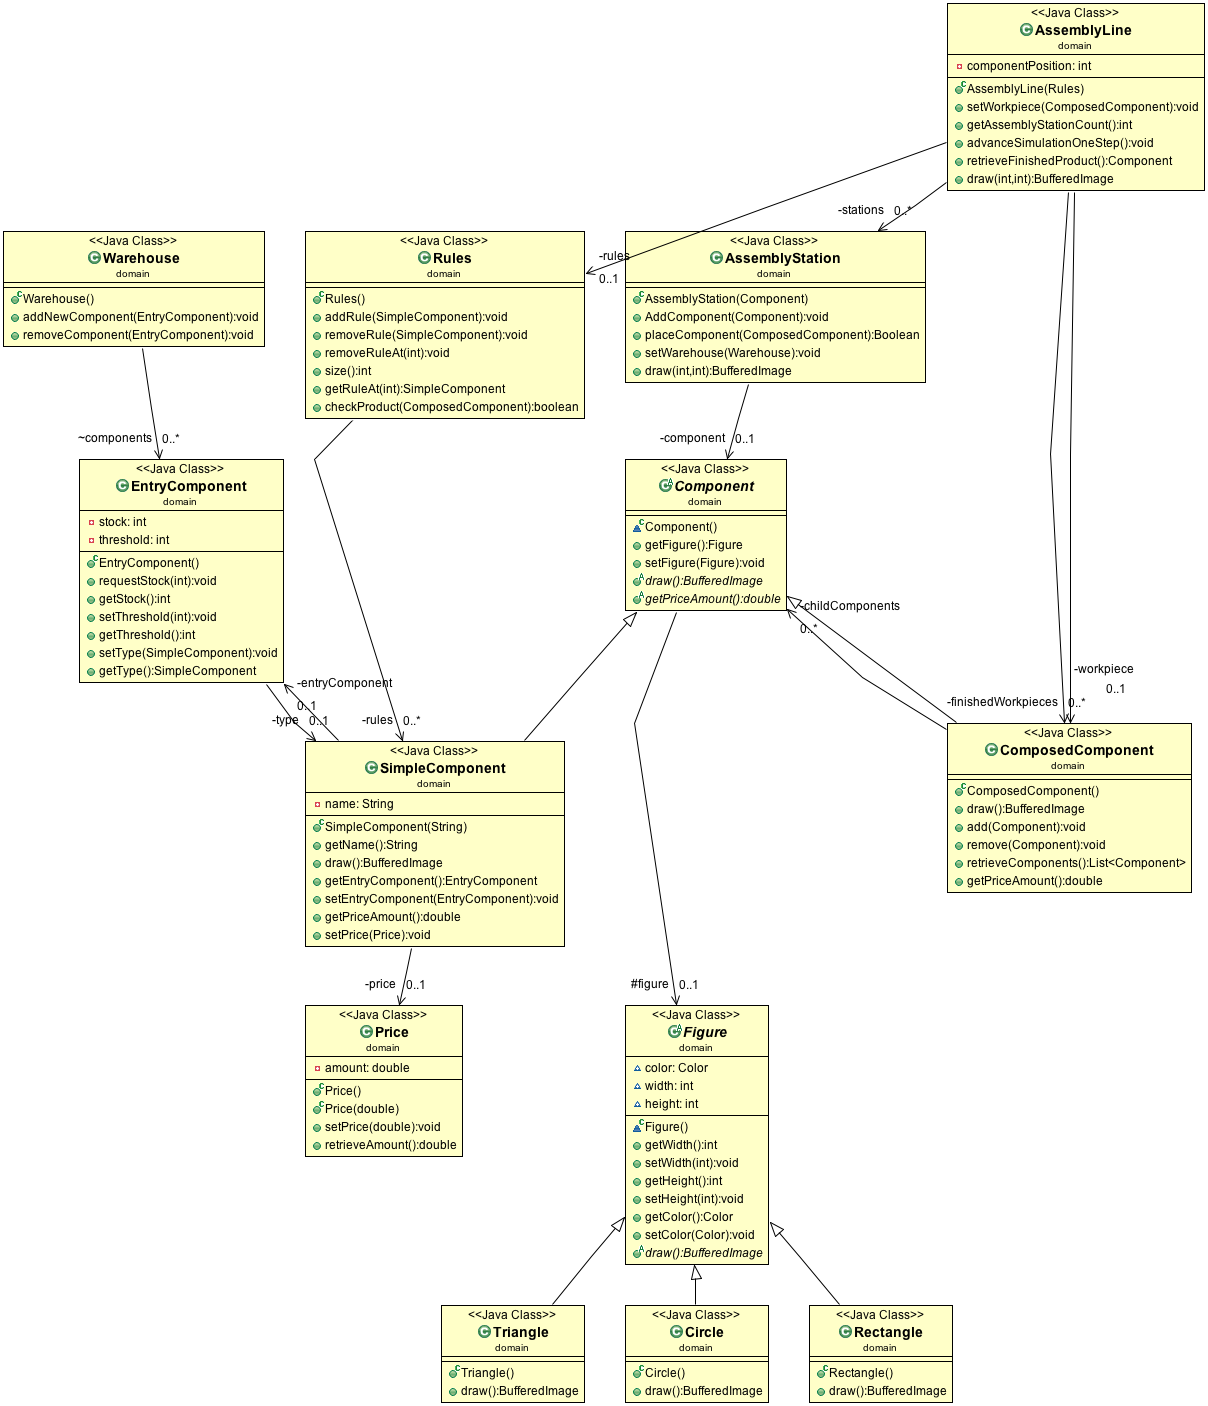
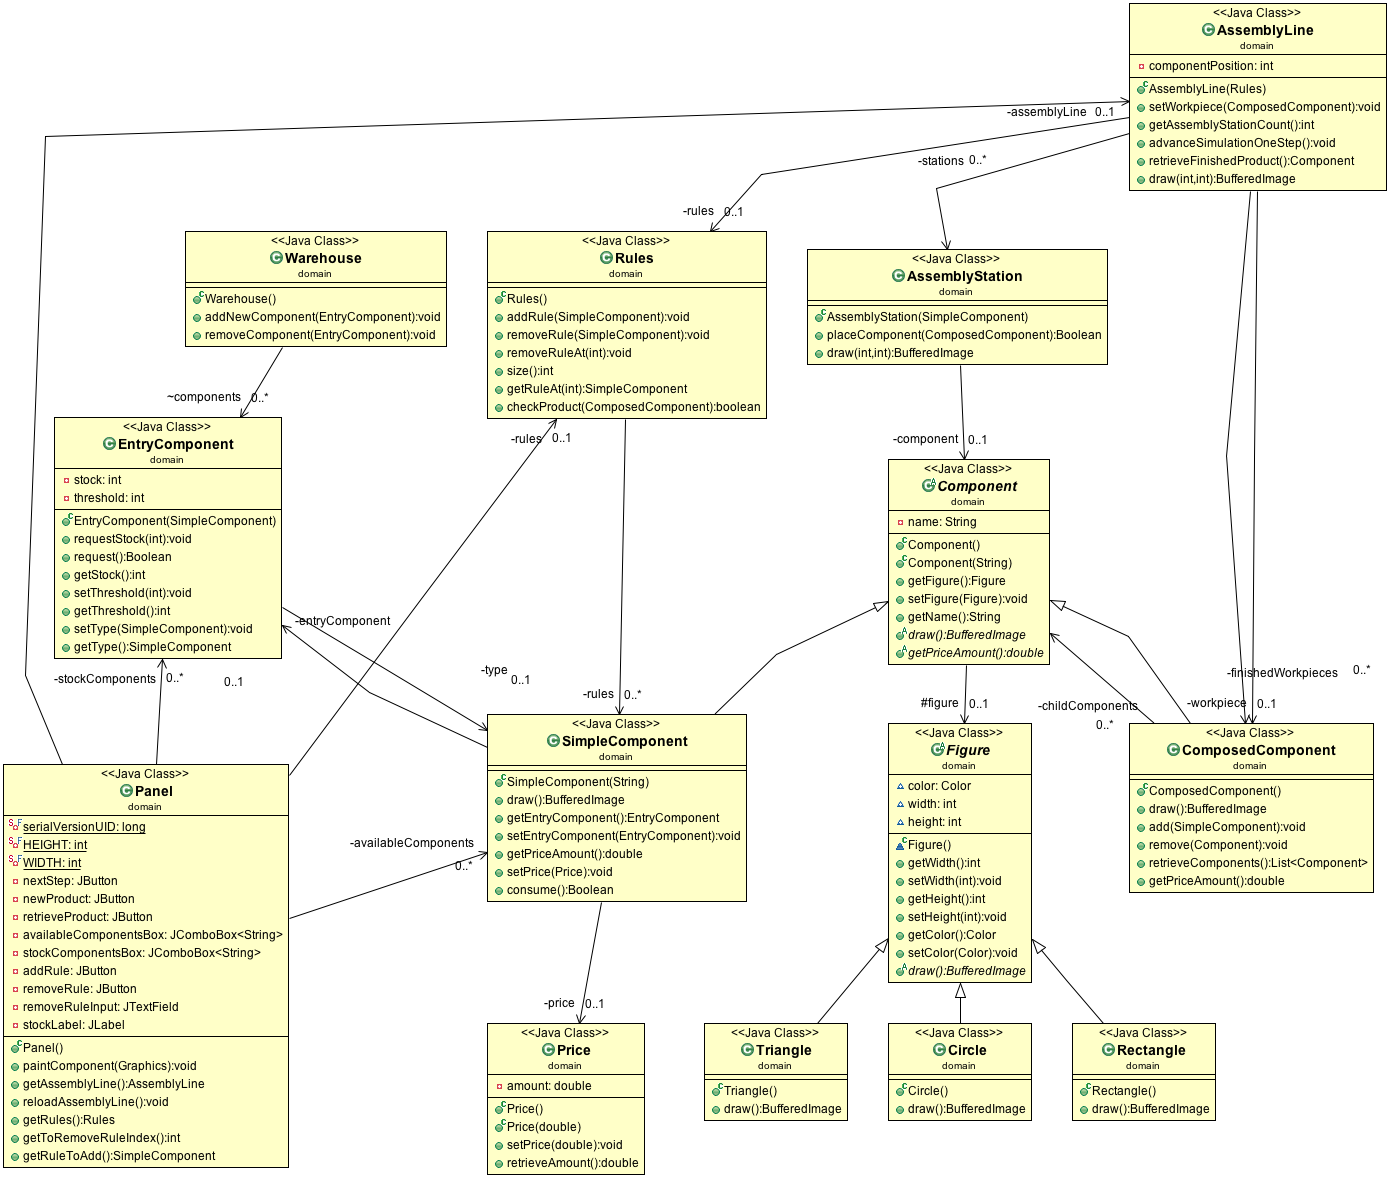
state of last feedback

diff --git a/AssemblyLine/src/domain/Panel.java b/AssemblyLine/src/domain/Panel.java
@@ -33,21 +33,25 @@ public class Panel extends JPanel {
 	private JButton newProduct;
 	private JButton retrieveProduct;
 	private JComboBox<String> availableComponentsBox;
+	private JComboBox<String> stockComponentsBox;
 	private JButton addRule;
 	private JButton removeRule;
 	private JTextField removeRuleInput;
+	private JLabel stockLabel;
 
 
 	private AssemblyLine assemblyLine;
 	private Rules rules;
     private List<SimpleComponent> availableComponents;
+    private List<EntryComponent> stockComponents;
 	
 	
 	public Panel() {
 
 		rules = new Rules();
-		
+
 		availableComponents = new ArrayList<SimpleComponent>();
+		stockComponents = new ArrayList<EntryComponent>();
 
 		Circle circle = new Circle();
 		circle.setColor(Color.GREEN);
@@ -59,6 +63,16 @@ public class Panel extends JPanel {
 		SimpleComponent wheel = new SimpleComponent("wheel");
 		SimpleComponent engine = new SimpleComponent("engine");
 		SimpleComponent window = new SimpleComponent("window");
+		
+		EntryComponent wheelEntry = new EntryComponent(wheel);
+		wheelEntry.requestStock(5);
+		wheel.setEntryComponent(wheelEntry);
+		EntryComponent engineEntry = new EntryComponent(engine);
+		engineEntry.requestStock(5);
+		engine.setEntryComponent(engineEntry);
+		EntryComponent windowEntry = new EntryComponent(window);
+		windowEntry.requestStock(5);
+		window.setEntryComponent(windowEntry);
 
 		wheel.setFigure(circle);
 		engine.setFigure(rect);
@@ -67,6 +81,10 @@ public class Panel extends JPanel {
 		availableComponents.add(wheel);
 		availableComponents.add(engine);
 		availableComponents.add(window);
+
+		stockComponents.add(wheelEntry);
+		stockComponents.add(engineEntry);
+		stockComponents.add(windowEntry);
 		
 		//hardcoded price but should be changed
 		wheel.setPrice(new Price(5.2));
@@ -121,15 +139,20 @@ public class Panel extends JPanel {
 		removeRuleInput.setText("0");
 		removeRuleInput.setVisible(true);
 		this.add(removeRuleInput);
+		
+		stockLabel = new JLabel("Stock: ");
+		stockLabel.setVisible(true);
+		stockLabel.setForeground(Color.WHITE);
+		this.add(stockLabel);
+		
+		stockComponentsBox = new JComboBox<String>();
+		for (EntryComponent component : stockComponents) {
+			stockComponentsBox.addItem(component.getType().getName() + " - " + component.getStock());
+		}
+		stockComponentsBox.setVisible(true);
+		this.add(stockComponentsBox);
 
 		frame.setVisible(true);
-	}
-
-	public void paintComponent(Graphics g, BufferedImage input) {
-		JLabel picLabel = new JLabel(new ImageIcon(input));
-		add(picLabel);
-		this.updateUI();
-
 	}
 
 	@Override
@@ -137,6 +160,11 @@ public class Panel extends JPanel {
 		super.paintComponent(g);
 		((java.awt.Graphics2D) g).drawImage(
 				assemblyLine.draw(this.getWidth(), 200), null, 0, 100);
+		
+		stockComponentsBox.removeAllItems();
+		for (EntryComponent component : stockComponents) {
+			stockComponentsBox.addItem(component.getType().getName() + " - " + component.getStock());
+		}
 	}
 
 	public AssemblyLine getAssemblyLine() {

diff --git a/AssemblyLine/src/domain/AssemblyStation.java b/AssemblyLine/src/domain/AssemblyStation.java
@@ -5,46 +5,23 @@ import java.awt.Graphics2D;
 import java.awt.image.BufferedImage;
 
 public class AssemblyStation  {
-	private Component component;
+	private SimpleComponent component;
 	
+	public AssemblyStation(SimpleComponent c) {
+		component = c;	
+	}
 	
-
-	// private int StockInStation;
-
-	public AssemblyStation(Component c) {
-		component = c;
-		new Rectangle();
-		
-	}
-	public void AddComponent(Component c) {
-		component = c;
-	}
 	public Boolean placeComponent(ComposedComponent p) {
-//		if (component.getStock() < 1) {
-//			warehouse.generateComponents((SimpleComponent) component, 1);
-//		}
 		p.add(component);
 		return true;
 	}
-
-	public void setWarehouse(Warehouse w) {
-
-	}
 	
 	public BufferedImage draw(int width, int height) {
-		
-
 		BufferedImage img = new BufferedImage(width, height,
 				BufferedImage.TYPE_INT_RGB);
 		Graphics2D graphics = img.createGraphics();
 
-		FontMetrics metrics = graphics.getFontMetrics(graphics.getFont());
-		
-		//graphics.drawRect(0, 0, width - 1, height - 1);
-		
-		
-		//graphics.drawImage(F.draw(width - 1, height - 1),null,0,0);
-				
+		FontMetrics metrics = graphics.getFontMetrics(graphics.getFont());	
 				
 		graphics.drawString(component.getName(), 5, height/3);
 		graphics.drawImage(component.draw(/*metrics.getHeight() - 1, metrics.getHeight() - 1*/), null,

diff --git a/AssemblyLine/src/domain/EntryComponent.java b/AssemblyLine/src/domain/EntryComponent.java
@@ -6,11 +6,22 @@ public class EntryComponent {
 	private int threshold;
 	private SimpleComponent type;
 	
-	public EntryComponent(){		
+	public EntryComponent(SimpleComponent type){
+		this.type = type;
 	}
 	
 	public void requestStock(int n){
 		this.stock = n;
+	}
+	
+	public Boolean request(){
+		if (stock <= 1) {
+			return false;
+		}
+		
+		this.stock--;
+	
+		return true;
 	}
 	
 	public int getStock(){

diff --git a/AssemblyLine/src/domain/ComposedComponent.java b/AssemblyLine/src/domain/ComposedComponent.java
@@ -38,8 +38,9 @@ public class ComposedComponent extends Component {
     }
 
     //Adds the component to the composition.
-    public void add(Component component) {
+    public void add(SimpleComponent component) {
     	childComponents.add(component);
+    	component.consume();
     }
  
     //Removes the component from the composition.

diff --git a/AssemblyLine/src/domain/SimpleComponent.java b/AssemblyLine/src/domain/SimpleComponent.java
@@ -36,5 +36,11 @@ public class SimpleComponent extends Component{
 		this.price = p;
 	}
 	
+	public Boolean consume() {
+		if (entryComponent == null) {
+			return false;
+		}
+		return entryComponent.request();
+	}
 	
 }

diff --git a/AssemblyLine/src/domain/Component.java b/AssemblyLine/src/domain/Component.java
@@ -30,4 +30,5 @@ abstract class Component{
 	public abstract BufferedImage draw();
 	public abstract double getPriceAmount();
 
+
 }
